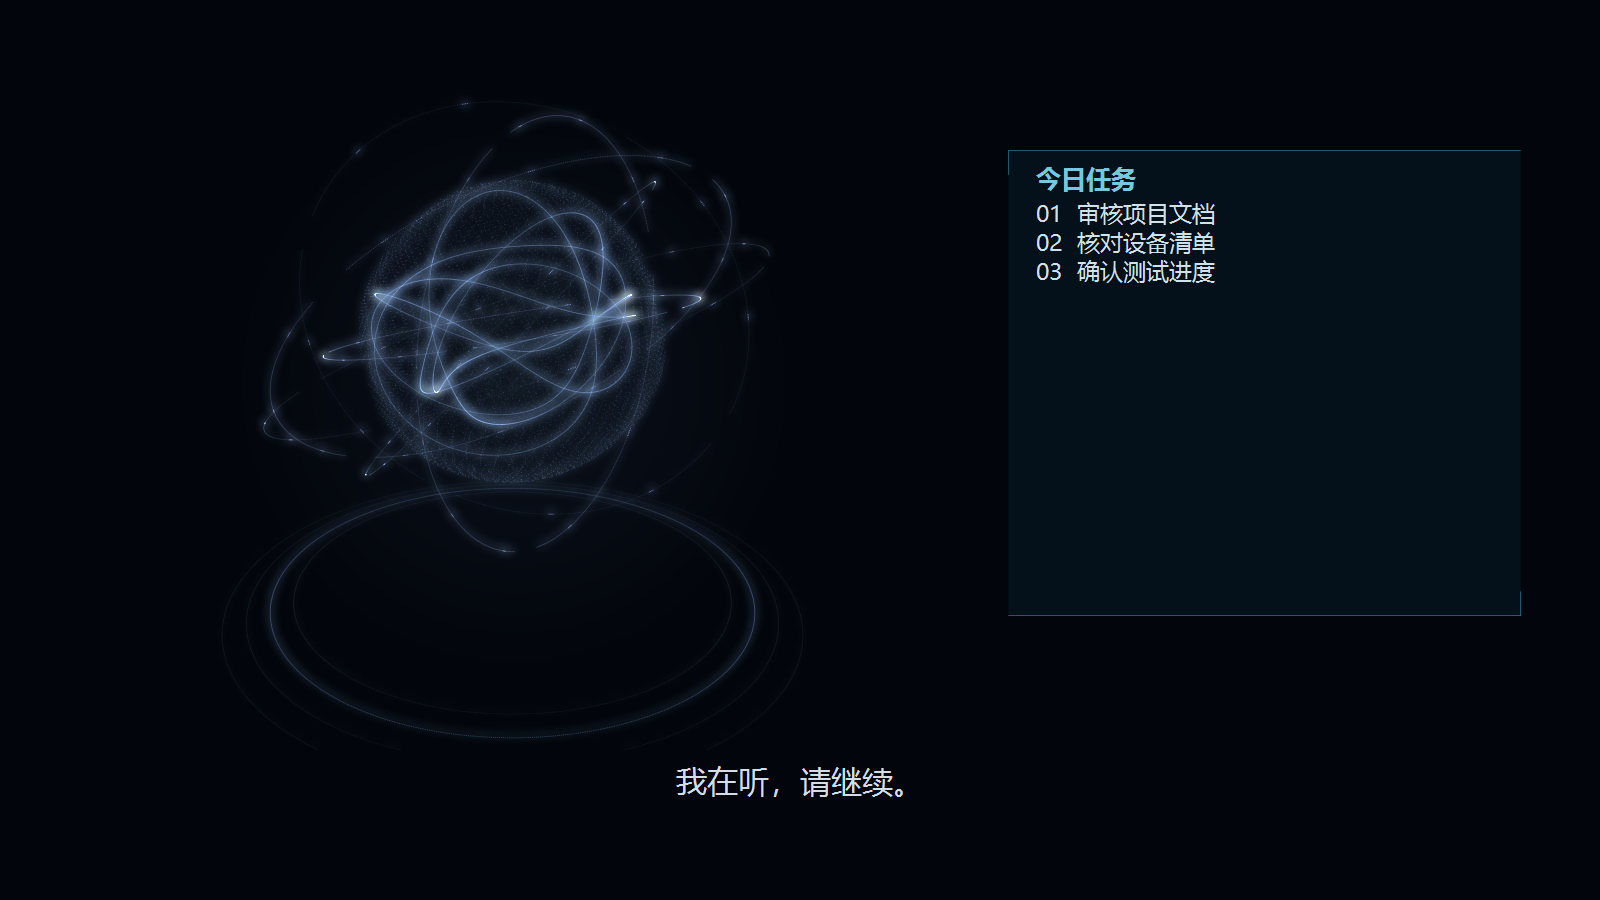
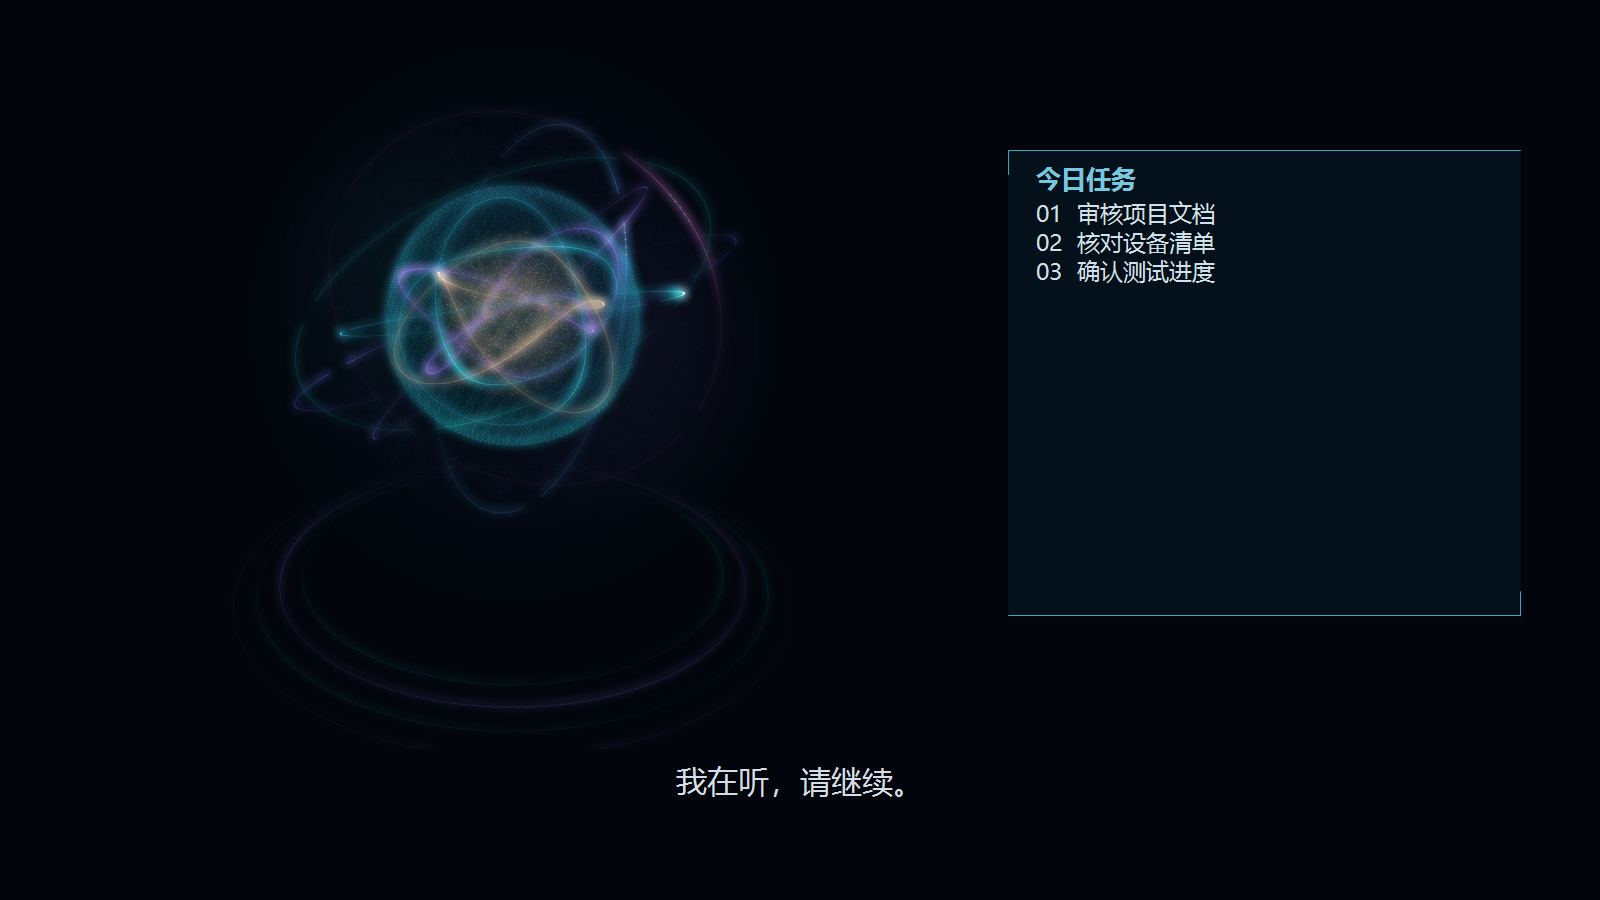
Record the verified multicolor hologram installer and native captures

Changed region(s): [[0.1875, 0.1556, 0.4688, 0.56], [0.1562, 0.4356, 0.1875, 0.4978], [0.3438, 0.1244, 0.375, 0.1556]]

diff --git a/docs/INSTALL-CANDIDATE.md b/docs/INSTALL-CANDIDATE.md
@@ -1,12 +1,12 @@
-# DeskBox 2.1.0-hologram.3 installation verification
+# DeskBox 2.1.0-hologram.4 installation verification
 
-Source: c02a4867f9adafd58b2ca74cb5203469ac65952b
-Windows CI: https://github.com/zong-technology/DeskBox/actions/runs/43858767928
+Source: 7c9e971790f61958349387fb05a0538c34b28bf1
+Windows CI: https://github.com/zong-technology/DeskBox/actions/runs/43867333117
 
 PASS: 47 setup, launch, upgrade, rollback and uninstall checks.
 PASS: archive/build/installed/running executable SHA-256 identity.
-Payload SHA-256: 1c173ff77ddaa866749b47ea065b5790f21aee09dfe7272b0788114f56df815f
-PASS: 71 immersive hologram checks against the installed payload.
+Payload SHA-256: 1167223781ca763c654d855ea2dd0388a98a555806ce3e040f20671638ab2b90
+PASS: 89 immersive hologram checks against the installed payload.
 PASS: 12-page keyboard navigation at 1600x900, 1280x800 and 1024x768 (96 DPI / 100%).
 PASS: three workspace layouts captured at each window size.
 
